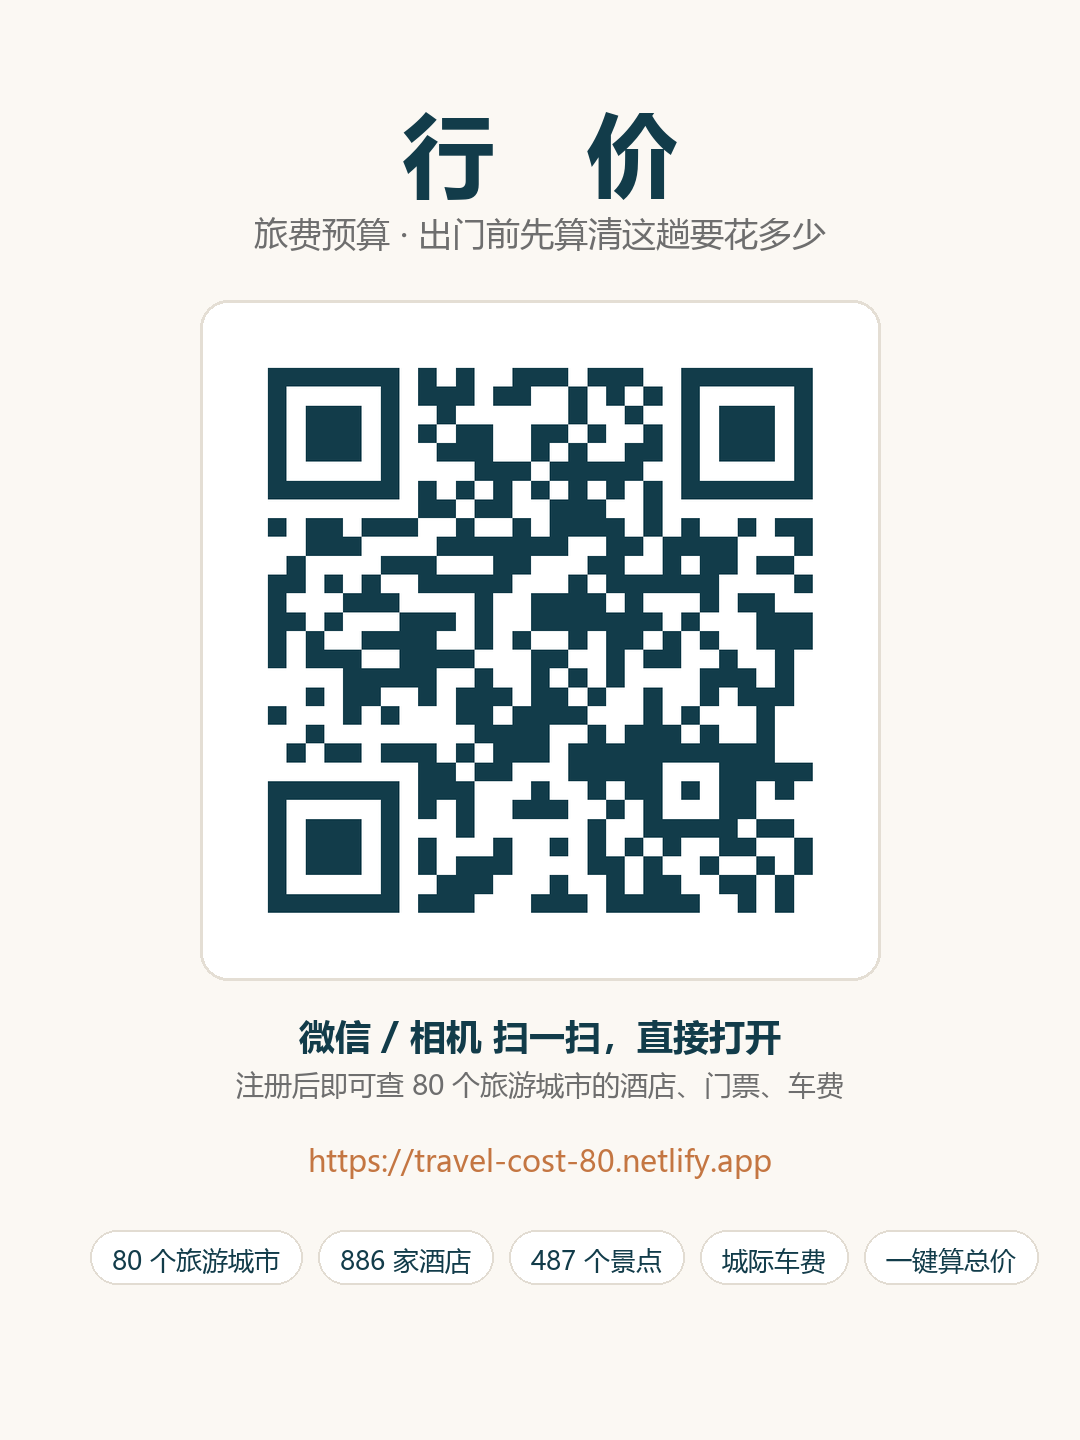
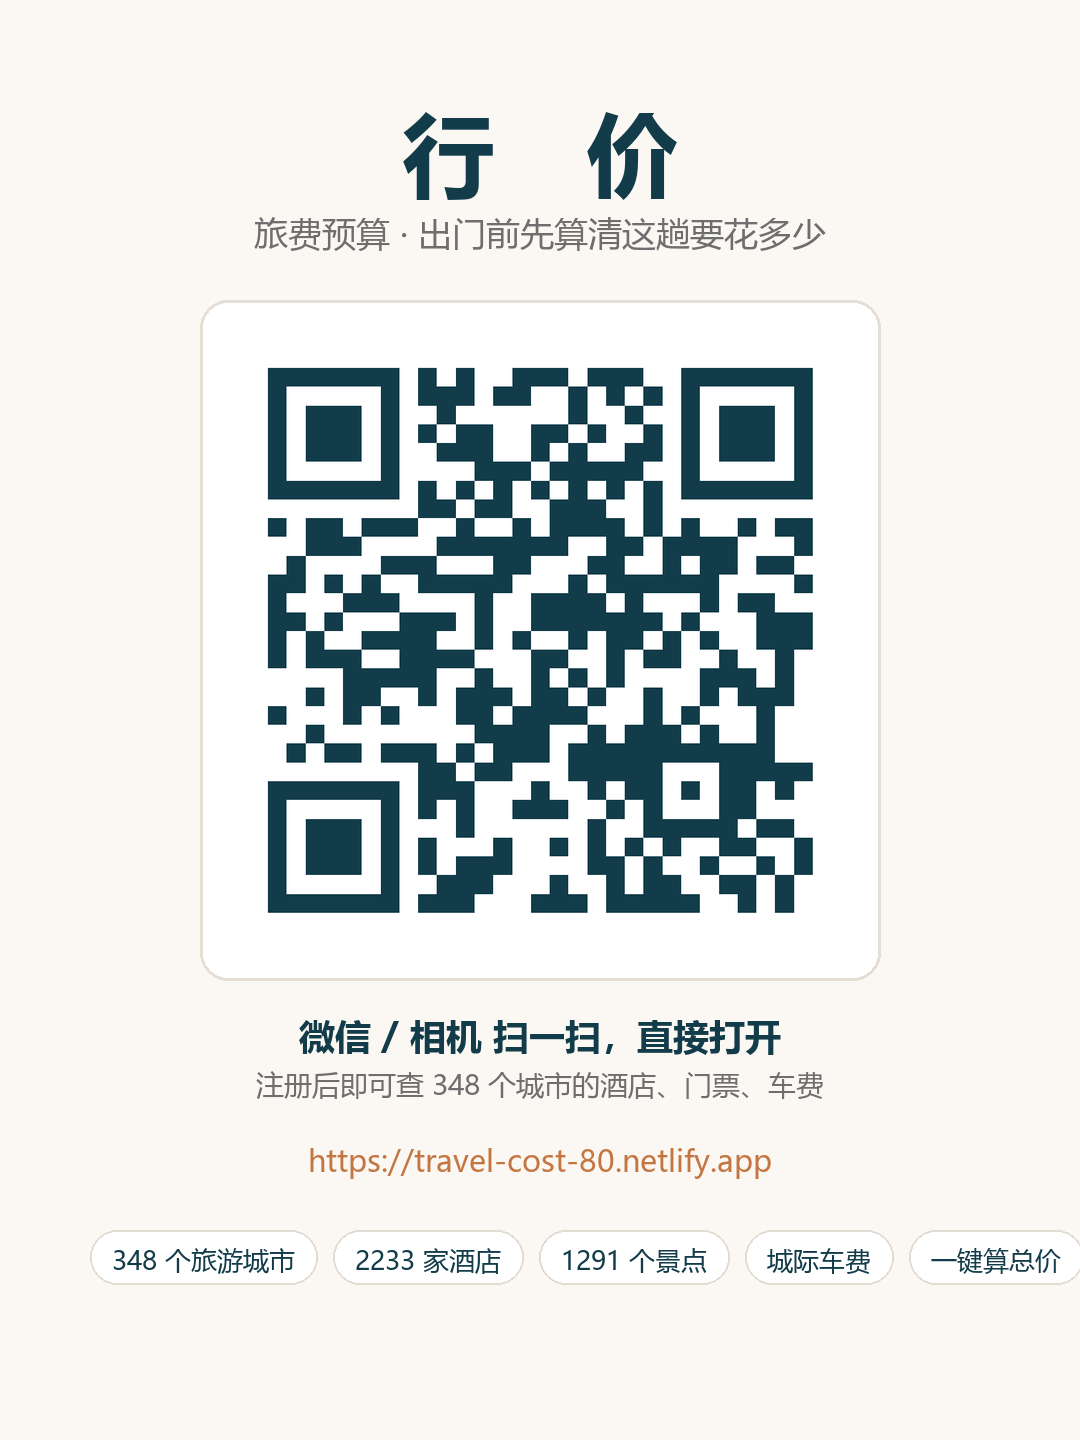
文档与海报更新：348 城 / 2233 酒店 / 1291 景点 / 12.99 万条车费

Changed region(s): [[0.1222, 0.8438, 0.9778, 0.9062], [0.2139, 0.7188, 0.7028, 0.7812], [0.7333, 0.7188, 0.7944, 0.7812]]

diff --git a/tools/make-poster.py b/tools/make-poster.py
@@ -42,13 +42,13 @@ img.paste(qr, ((W - qsize) // 2, card_y + 30))
 
 # 提示语
 center("微信 / 相机 扫一扫，直接打开", 1010, font(36, True), INK)
-center("注册后即可查 80 个旅游城市的酒店、门票、车费", 1065, font(28), MUTED)
+center("注册后即可查 348 个城市的酒店、门票、车费", 1065, font(28), MUTED)
 
 # 网址
 center("https://travel-cost-80.netlify.app", 1140, font(30), ACCENT)
 
 # 底部标签
-tags = ["80 个旅游城市", "886 家酒店", "487 个景点", "城际车费", "一键算总价"]
+tags = ["348 个旅游城市", "2233 家酒店", "1291 个景点", "城际车费", "一键算总价"]
 y = 1230
 x = 90
 f_tag = font(26)

diff --git a/docs/交付说明.md b/docs/交付说明.md
@@ -8,7 +8,7 @@
 | --- | --- |
 | 用户端 | 注册、登录、选目的地、查酒店/景点门票/城际车费、勾选后一键算这趟总价 |
 | 管理端 | `admin` / `123456` 直接登录（不用注册）：数据管理（目的地/酒店/门票/车费 增删改查）、数据总览、注册用户列表 |
-| 数据 | **80 个旅游城市 / 886 家酒店 / 487 个景点 / 14398 条城际车费**：每城 10-15 家真实酒店（如家、汉庭、全季、亚朵、香格里拉、亚特兰蒂斯等真实门店）+ 5-8 个真实景点；车费覆盖全国任意两城（按里程测算的参考价），管理端随时可改 |
+| 数据 | **348 个城市 / 2233 家酒店 / 1291 个景点 / 129,926 条城际车费**：覆盖全国地级行政区（337 个）+ 原有热门景区城市：热门城市 10-15 家、其它城市 5 家真实酒店 + 3 个真实景点；车费覆盖任意两城（按里程测算的参考价），管理端随时可改 |
 | 外链 | 每张酒店/景点/城市卡片带「去携程看实时价 ↗」，点开跳携程对应城市页看当天真实价 |
 | 分享 | 导航「分享」→ 二维码 + 复制链接；微信里可以直接发给好友，手机打开就能注册并算完 |
 | 页面 | 手机 375px 到桌面都能正常用；导航按角色显示不同入口 |
@@ -27,7 +27,7 @@ $env:PORT=3000; npm start   # 起服务，浏览器打开 http://localhost:3000
 
 ## 三、三个身份
 
-1. 新用户：打开网址 → 注册（只要用户名+密码）→ 首页选城市（80 个，可搜索）→ 勾酒店/门票，再选出发地查车费 → 算总价看明细；每张卡片可点「去携程看实时价」核对当天价格。
+1. 新用户：打开网址 → 注册（只要用户名+密码）→ 首页选城市（348 个，可搜索）→ 勾酒店/门票，再选出发地查车费 → 算总价看明细；每张卡片可点「去携程看实时价」核对当天价格。
 2. 管理员：`admin` / `123456` → 自动进「数据管理」；改完价格，用户端刷新立刻是新价（没有缓存）。
 3. 普通用户访问管理端网址会被踢回首页并提示「只有管理员能进管理端」。
 
